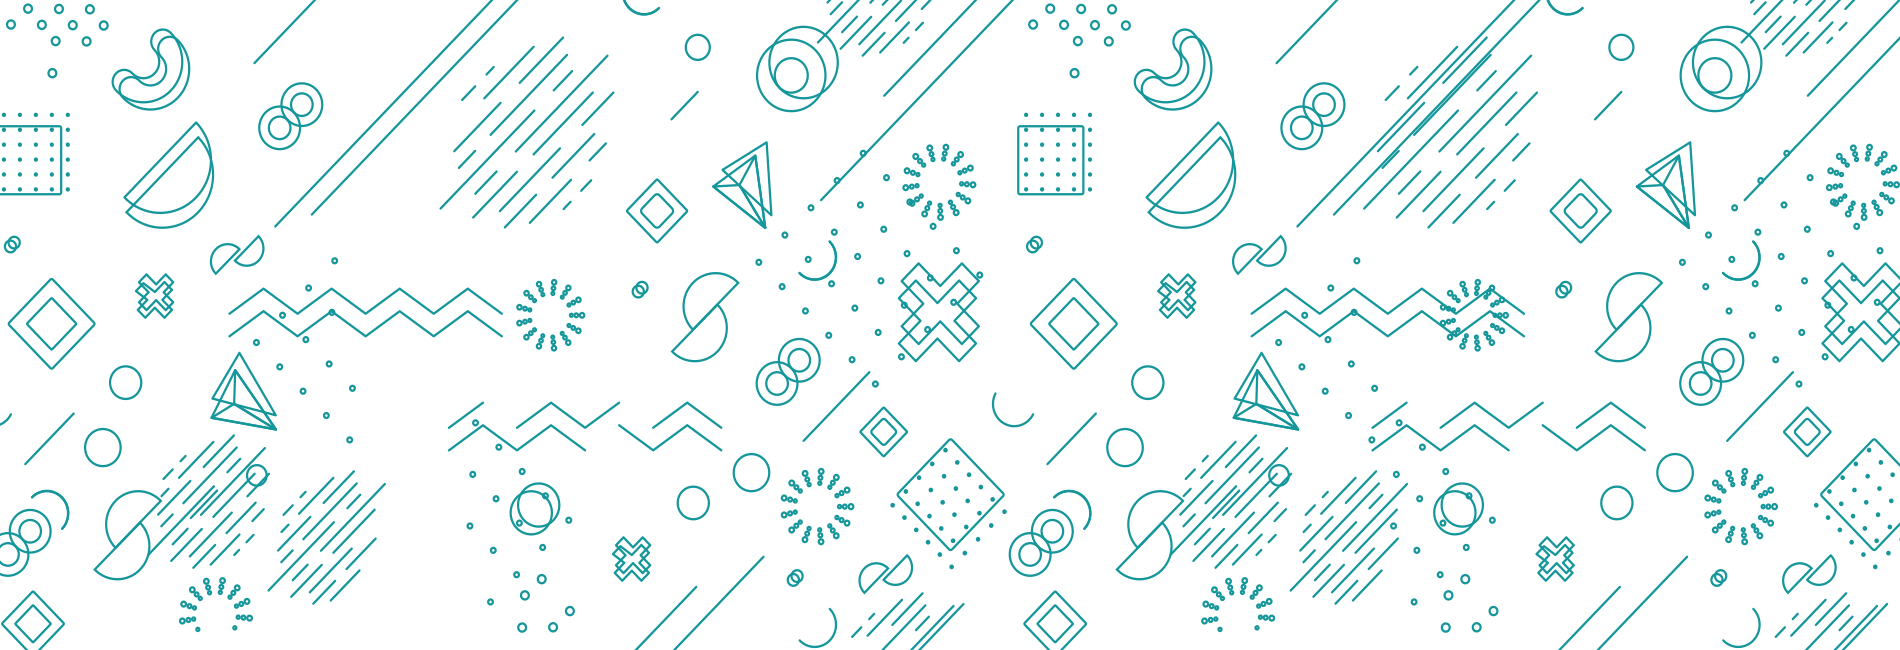
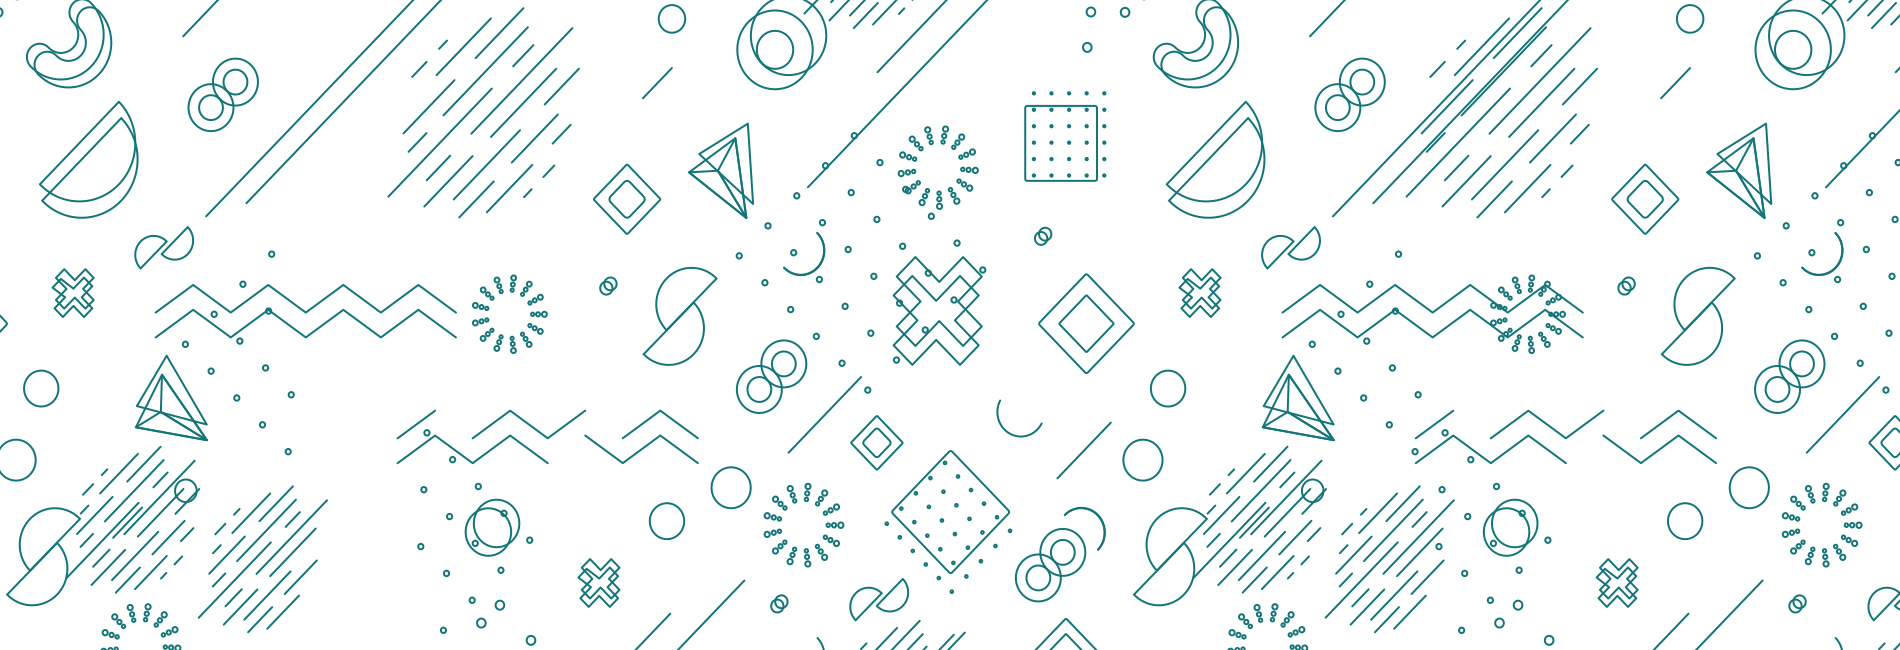
se completa la estructura

diff --git a/servicios.html b/servicios.html
@@ -80,7 +80,7 @@
 
     <main>
       <!-- Servicios -->
-      <section id="digital" class="digital mb-5">
+      <section id="digital" class="digital pb-5">
         <div class="container">
           <div class="row pt-4">
             <div class="col">
@@ -163,10 +163,7 @@
           </div>
           <!--sector carteleria-->
           <div class="row mb-2">
-            <div class="col subtitulos">
-              <h2>Cartelería</h2>
-              <hr>              
-            </div>
+            <hr>
           </div>
           <div class="row">
             <!--carrusel Publicidad Cartelería-->
@@ -213,6 +210,7 @@
              <!-- fin carrusel Publicidad Cartelería-->
 
              <div class="col-5 digital-texto">
+              <h3>Tela pvc | Pendones</h3>
               <p class="mb-3">
                 <i class="fa-solid fa-circle-check"></i> Realizamos diseño de logos a medida<br>
                 <i class="fa-solid fa-circle-check"></i> Vectorización<br>
@@ -224,15 +222,12 @@
             <!-- fin sector carteleria-->
 
             <!--sector Vinilo adhesivo-->
-            <div class="row">
-              <div class="col subtitulos my-4">
-                <hr>  
-                <h2>Vinilos Adhesivos</h2>            
-              </div>
+            <div class="row my-4">
+              <hr>
             </div>
             <div class="row">
-
               <div class="col-5 digital-texto">
+                <h3>Vinilos Adhesivos</h3>
                 <p class="mb-3">
                   <i class="fa-solid fa-circle-check"></i> Realizamos diseño de logos a medida<br>
                   <i class="fa-solid fa-circle-check"></i> Vectorización<br>
@@ -287,11 +282,8 @@
               <!-- fin sector Vinilo adhesivo-->
 
               <!--sector Textil-->
-              <div class="row mb-2">
-                <div class="col subtitulos">
-                  <h2>Textil</h2>
-                  <hr>              
-                </div>
+              <div class="row my-4">
+                <hr>
               </div>
               <div class="row">
                 <!--carrusel Publicidad textil-->
@@ -335,9 +327,10 @@
                     </button>
                   </div>
                 </div>
-                <!-- fin carrusel Publicidad Cartelería-->
+                <!-- fin carrusel Publicidad textil-->
 
                 <div class="col-5 digital-texto">
+                  <h3>Estampados textil</h3>
                   <p class="mb-3">
                     <i class="fa-solid fa-circle-check"></i> Realizamos diseño de logos a medida<br>
                     <i class="fa-solid fa-circle-check"></i> Vectorización<br>
@@ -346,18 +339,16 @@
                   </p>
                   <a href="#" type="button" class="btn btn-naranja">Trabajemos juntos</a>
                 </div>
-                <!-- fin sector carteleria-->
+                <!-- fin sector Textil  -->
 
                 <!--sector Impresión-->
-                <div class="row">
-                  <div class="col subtitulos my-4">
-                    <hr>  
-                    <h2>Impresión</h2>            
-                  </div>
+                <div class="row my-4">
+                  <hr>
                 </div>
                 <div class="row">
 
                   <div class="col-5 digital-texto">
+                    <h3>Estampado textil</h3>
                     <p class="mb-3">
                       <i class="fa-solid fa-circle-check"></i> Realizamos diseño de logos a medida<br>
                       <i class="fa-solid fa-circle-check"></i> Vectorización<br>
@@ -415,61 +406,91 @@
         </div><!--fin container-->
       </section>
 
-      <section id="web" class="py-4 web">
+      <div class="separadorMulti"></div>
+
+      <section id="web" class="pt-4 web">
         <div class="container">
           <div class="row">
-            <div class="col">
+            <div class="col mb-2">
               <div class="servicios-titulos">
                 <img src="./img/servicios/web-icono.png" alt="Icono sección publicidad">
                 <h2>Diseño Web</h2>
               </div>
-                <p class="py-3"> Te ayudamos a construir o renovar la identidad de tu empresa, diseñamos a la medida de tus necesidades.</p>
+                <p class="pt-3"> Te ayudamos a construir o renovar la identidad de tu empresa, diseñamos a la medida de tus necesidades.</p>
             </div>
           </div>
           <!--cards diseño web-->
-
-              <!--Card que hacemos-->
-              <div class="row my-1 mb-5">
-                <div class="col col-lg-4 text-center py-2 my-2 cardMod">
-                  <div class="card">
-                    <a class="cardBtn" href="#">
-                      <img src="../img/card1.png" class="card-img-top" alt="...">
-                      <div class="card-body mb-3">
-                        <h3 class="card-title">Diseño Gráfico</h3>
-                        <p class="card-text">Some quick example text to build on the card title and make up the bulk of the card's content.</p>
-                      </div>
-                    </a>
+          <div class="row">
+            <!--card Landing-->
+            <div class="col card-pos">
+              <div class="card card-web" style="width: 18rem;">
+                  <img src="./img/servicios/card1.png" class="card-img-top" alt="...">
+                  <div class="card-texto">
+                    <h4 class="card-web-h4">Landing Page</h4>
+                    <em>Simple y rápido</em>
+                    <hr>
+                    <p>
+                      <b>Caracteristicas</b><br>
+                      <i class="fa-solid fa-circle-check"></i> Ideal para promocionar un producto (una sección).<br>
+                      <i class="fa-regular fa-image"></i> Hasta 5 imágenes.<br>
+                      <i class="fa-solid fa-thumbs-up"></i> Enlace a redes sociales.<br>
+                      <i class="fa-solid fa-list"></i> Formulario de contacto.<br>
+                      <i class="fa-solid fa-pen-nib"></i> Diseño personalizado.<br>
+                      <i class="fa-solid fa-mobile-screen-button"></i> Adaptable a móviles (responsive).
+                    </p>
+                    <a href="#" type="button" class="btn btn-verde">Trabajemos juntos</a>
                   </div>
-                </div>
-                <div class="col col-lg-4 text-center py-2 my-2 cardMod">
-                  <div class="card">
-                    <a class="cardBtn" href="#">
-                      <img src="../img/card2.png" class="card-img-top" alt="...">
-                      <div class="card-body mb-3">
-                        <h3 class="card-title">Publicidad</h3>
-                        <p class="card-text">Some quick example text to build on the card title and make up the bulk of the card's content.</p>
-                      </div>
-                    </a>
-                  </div>
-                </div>
-                <div class="col col-lg-4 text-center py-2 my-2 cardMod">
-                  <div class="card">
-                    <a class="cardBtn" href="#">
-                      <img src="../img/card3.png" class="card-img-top" alt="...">
-                      <div class="card-body mb-3">
-                        <h3 class="card-title">Diseño Web</h3>
-                        <p class="card-text">Some quick example text to build on the card title and make up the bulk of the card's content.</p>
-                      </div>
-                    </a>
-                  </div>
+              </div>
+            </div>
+            <!--card web-->
+            <div class="col card-pos">
+              <div class="card card-web" style="width: 18rem;">
+                <img src="./img/servicios/card1.png" class="card-img-top" alt="...">
+                <div class="card-texto">
+                  <h4 class="card-web-h4">Sitio web</h4>
+                  <em>Simple y rápido</em>
+                  <hr>
+                  <p>
+                    <b>Caracteristicas</b><br>
+                    <i class="fa-solid fa-circle-check"></i> Ideal para promocionar un producto (una sección).<br>
+                    <i class="fa-regular fa-image"></i> Hasta 5 imágenes.<br>
+                    <i class="fa-solid fa-thumbs-up"></i> Enlace a redes sociales.<br>
+                    <i class="fa-solid fa-list"></i> Formulario de contacto.<br>
+                    <i class="fa-solid fa-pen-nib"></i> Diseño personalizado.<br>
+                    <i class="fa-solid fa-mobile-screen-button"></i> Adaptable a móviles (responsive).
+                  </p>
+                  <a href="#" type="button" class="btn btn-verde">Trabajemos juntos</a>
                 </div>
               </div>
-              <!--Fin Card que hacemos-->
+            </div>
+            <!--card tienda-->
+            <div class="col card-pos">
+              <div class="card card-web" style="width: 18rem;">
+                <img src="./img/servicios/card1.png" class="card-img-top" alt="...">
+                <div class="card-texto">
+                  <h4 class="card-web-h4">E-commerce</h4>
+                  <em>Simple y rápido</em>
+                  <hr>
+                  <p>
+                    <b>Caracteristicas</b><br>
+                    <i class="fa-solid fa-circle-check"></i> Ideal para promocionar un producto (una sección).<br>
+                    <i class="fa-regular fa-image"></i> Hasta 5 imágenes.<br>
+                    <i class="fa-solid fa-thumbs-up"></i> Enlace a redes sociales.<br>
+                    <i class="fa-solid fa-list"></i> Formulario de contacto.<br>
+                    <i class="fa-solid fa-pen-nib"></i> Diseño personalizado.<br>
+                    <i class="fa-solid fa-mobile-screen-button"></i> Adaptable a móviles (responsive).
+                  </p>
+                  <a href="#" type="button" class="btn btn-verde">Trabajemos juntos</a>
+                </div>
+              </div>
+            </div>
+          </div>
+          <!--Fin Card web-->
         </div><!--fin container-->
       </section>
     </main>
 
-    <div class="separadorMulti"></div>
+    <div class="separadorNaranja"></div>
 
     <!--Footer-->      
     <footer class="bg-dark py-4">

diff --git a/css/style.css b/css/style.css
@@ -415,6 +415,11 @@ footer h4{
 }
 
 /* digital */
+.digital{
+    background-image: url('../img/servicios/fondo-digital.png');
+    background-repeat: repeat;
+    background-size: contain;
+}
 .digital p{
     color: #333;
     margin-bottom: 0px;
@@ -429,6 +434,10 @@ footer h4{
 .digital-slider p{
     color: white;
     text-shadow: 3px 3px 5px rgba(0,0,0,0.6);
+}
+
+.digital-texto h3{
+    color: #0C979C;
 }
 
 /* publicidad */
@@ -453,12 +462,57 @@ footer h4{
 .web{
     width: 100%;
     padding: 30px 0px;
-    background-color: #19B49B;
+    background-color: #0C979C;
     background-image: url('../img/servicios/fondo-web.png');
+    background-size: contain;
 }
 
 .web h2{
     color: white;
 }
 
+.card-web{
+    border-radius: 20px;
+    border: none;
+    cursor: pointer;
+    bottom: 0px;
+    transition: all ease 0.3s;
+}
+
+.card-web:hover{
+    box-shadow: 8px 8px 8px 0px rgba(0,0,0,0.2);
+    bottom: 10px;
+}
+
+.card-web img{
+    border-radius: 20px 20px 0px 0px;
+}
+
+.card-pos{
+    display: flex;
+    justify-content: center;
+}
+
+.card-texto{
+    text-align: center;
+    margin-bottom: 25px;
+}
+.card-web-h4{
+    color: white;
+    background-color: #FF6600;
+    padding-bottom: 5px;
+}
+.card-web hr{
+    margin: 0;
+    margin-top: 5px;
+}
+.card-texto p{
+    text-align: left;
+    color: #333;
+    padding: 0.2rem 1rem 0.5rem 1rem ;
+}
+
+.card-texto a{
+    text-align: center;
+}
 /*****FIN PAGINA SERVICIOS******/
